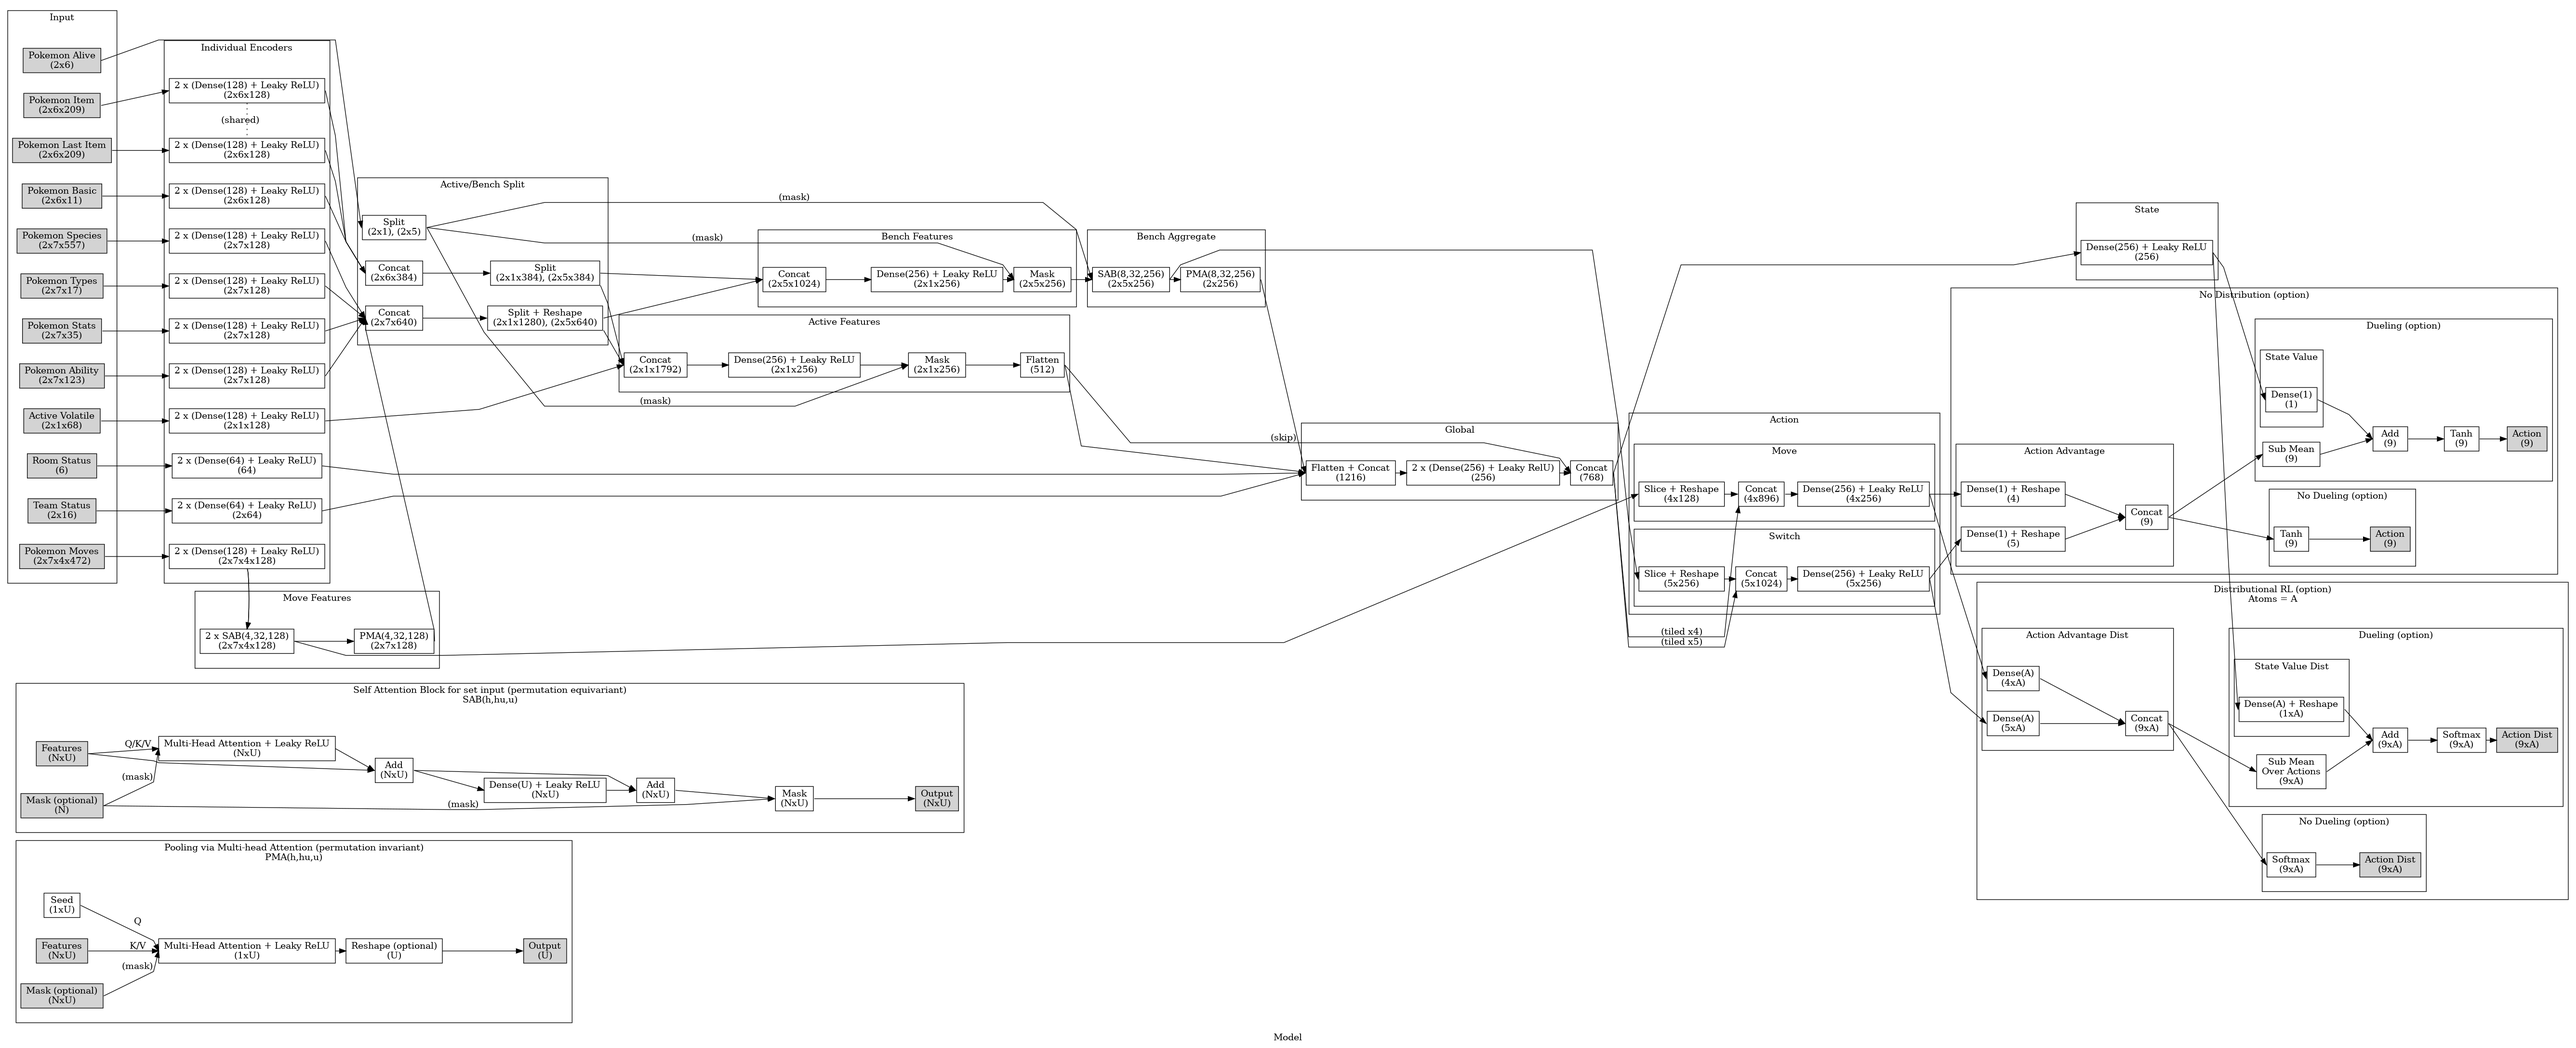
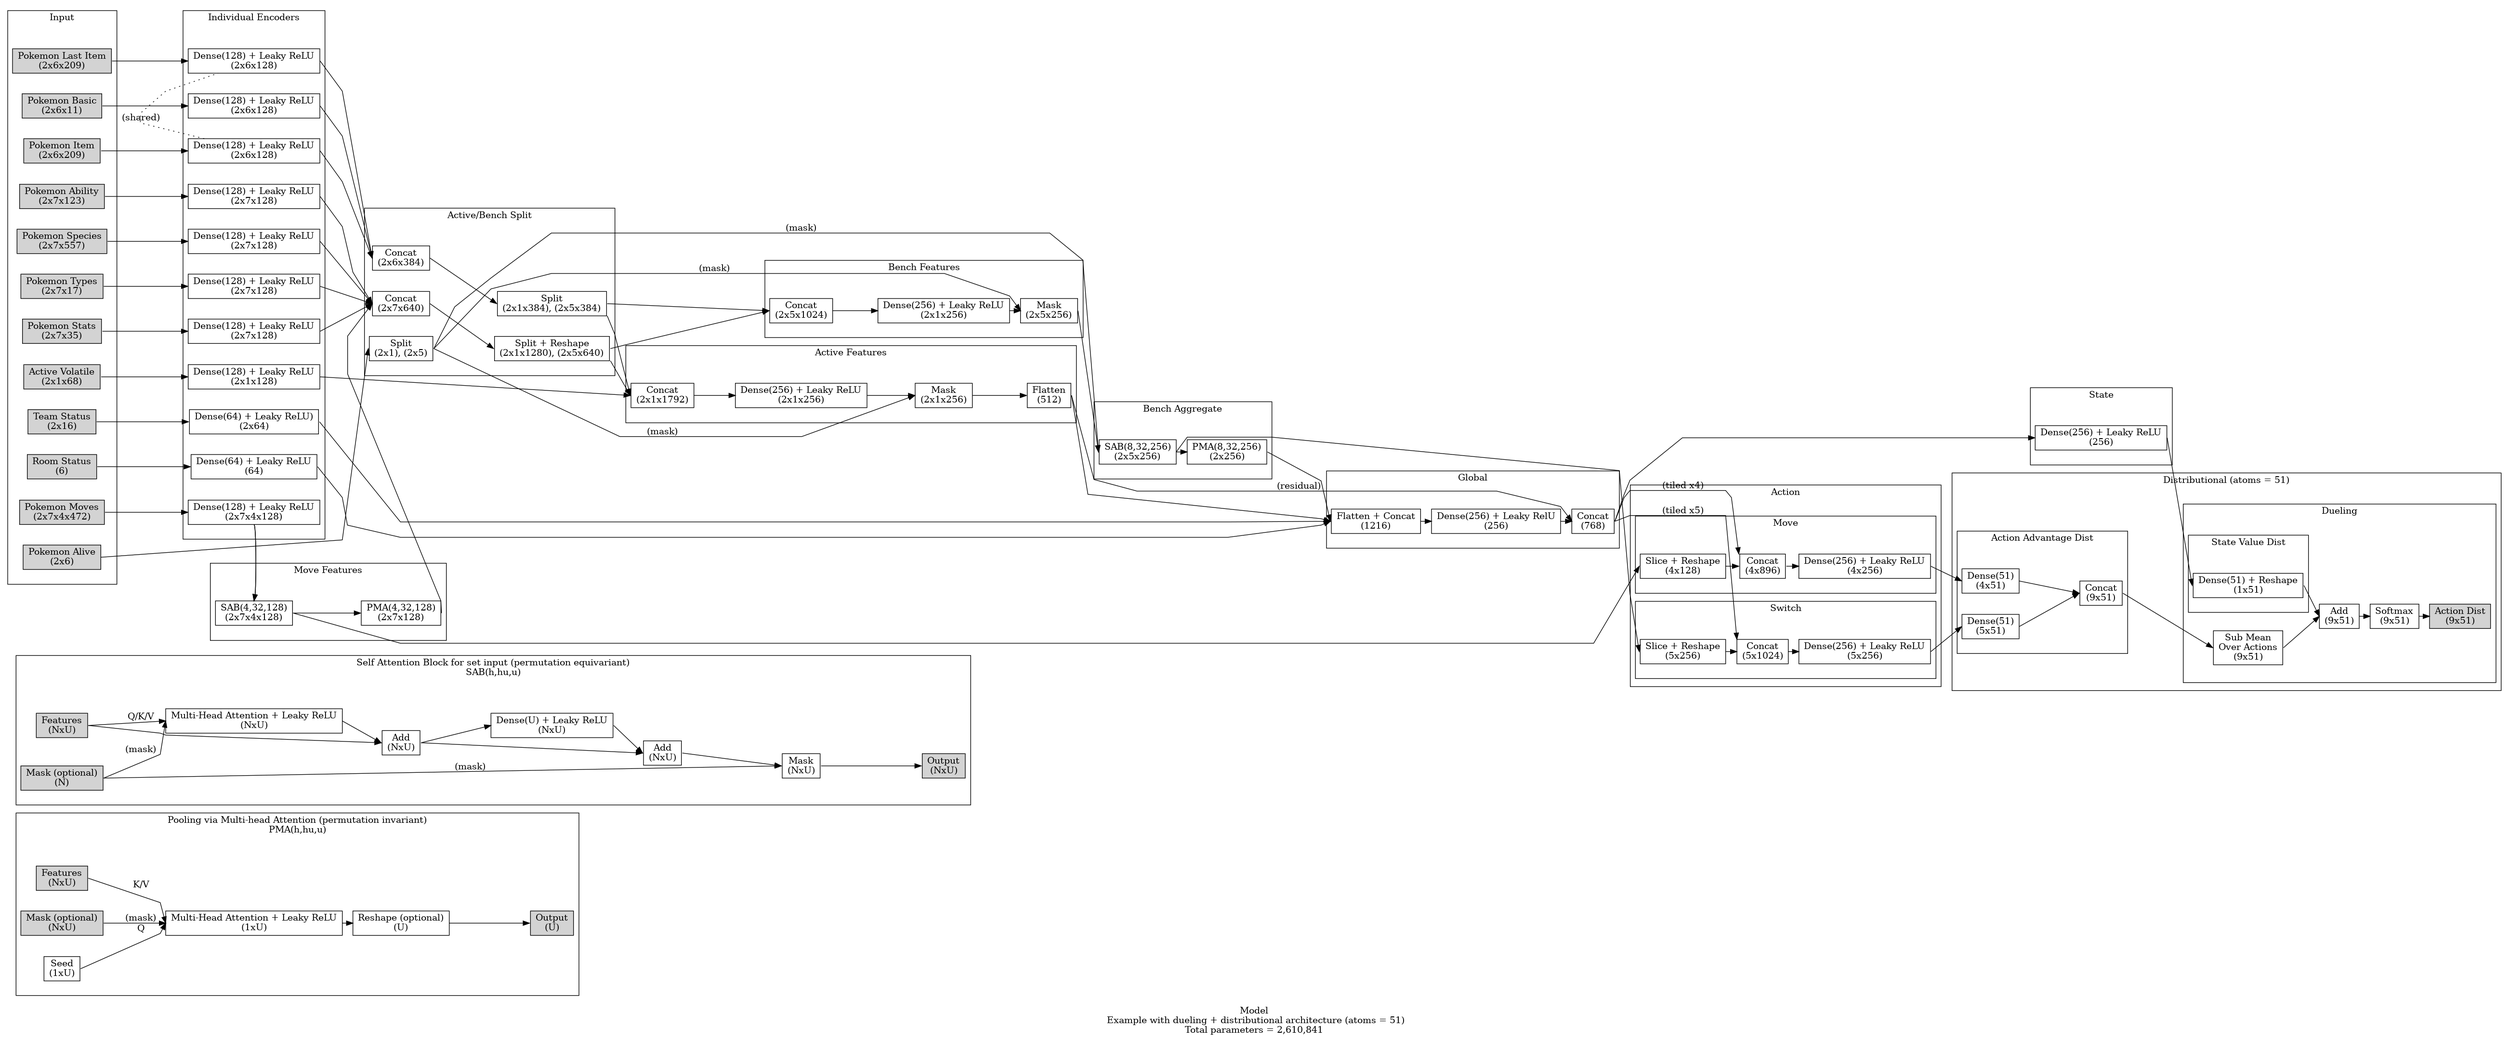
Reduce number of layers
Seems to not improve performance as much as I thought it would

diff --git a/src/model/model.ts b/src/model/model.ts
@@ -115,24 +115,14 @@ export function createModel(
     const moveUnits = 128;
     const moves = inputFeatures(name, "pokemon/moves", moveUnits, random);
     inputs.push(moves.input);
-    let moveset = selfAttentionBlock(
+    const moveset = selfAttentionBlock(
         name,
         "pokemon/moves",
         4 /*heads*/,
         32 /*headUnits*/,
         moveUnits /*units*/,
-        "_1",
         random,
     )(moves.features);
-    moveset = selfAttentionBlock(
-        name,
-        "pokemon/moves",
-        4 /*heads*/,
-        32 /*headUnits*/,
-        moveUnits /*units*/,
-        "_2",
-        random,
-    )(moveset);
     const movesetAggregate = poolingAttentionBlock(
         name,
         "pokemon/moves",
@@ -199,16 +189,6 @@ export function createModel(
         8 /*heads*/,
         32 /*headUnits*/,
         benchUnits /*units*/,
-        "_1",
-        random,
-    )(bench, benchAlive);
-    bench = selfAttentionBlock(
-        name,
-        "bench",
-        8 /*heads*/,
-        32 /*headUnits*/,
-        benchUnits /*units*/,
-        "_2",
         random,
     )(bench, benchAlive);
 
@@ -270,7 +250,7 @@ export function createModel(
 
     let q: tf.SymbolicTensor;
     if (!config?.dueling) {
-        q = qValue(name, "action", config?.dist)(advantage);
+        q = advantage;
     } else {
         const value = stateValue({
             name,
@@ -280,8 +260,9 @@ export function createModel(
             ...(random && {random}),
         })(global);
 
-        q = qDueling(name, "action", config.dist)(advantage, value);
+        q = qDueling(name, "action")(advantage, value);
     }
+    q = qValue(name, "q_val", config?.dist)(q);
 
     //#endregion
 
@@ -361,29 +342,18 @@ function inputFeaturesList(
     random?: Rng,
 ): InputFeaturesList {
     const inputs = labels.map(label => inputLayer(name, label));
-    const denseLayer1 = tf.layers.dense({
-        name: `${name}/${labels[0]}/dense_1`,
+    const denseLayer = tf.layers.dense({
+        name: `${name}/${labels[0]}/dense`,
         units,
         kernelInitializer: tf.initializers.heNormal({seed: random?.()}),
         biasInitializer: "zeros",
     });
-    const activationLayer1 = tf.layers.leakyReLU({
-        name: `${name}/${labels[0]}/leaky_relu_1`,
-    });
-    const denseLayer2 = tf.layers.dense({
-        name: `${name}/${labels[0]}/dense_2`,
-        units,
-        kernelInitializer: tf.initializers.heNormal({seed: random?.()}),
-        biasInitializer: "zeros",
-    });
-    const activationLayer2 = tf.layers.leakyReLU({
-        name: `${name}/${labels[0]}/leaky_relu_2`,
+    const activationLayer = tf.layers.leakyReLU({
+        name: `${name}/${labels[0]}/leaky_relu`,
     });
     const features = inputs.map(input => {
-        input = denseLayer1.apply(input) as tf.SymbolicTensor;
-        input = activationLayer1.apply(input) as tf.SymbolicTensor;
-        input = denseLayer2.apply(input) as tf.SymbolicTensor;
-        input = activationLayer2.apply(input) as tf.SymbolicTensor;
+        input = denseLayer.apply(input) as tf.SymbolicTensor;
+        input = activationLayer.apply(input) as tf.SymbolicTensor;
         return input;
     });
     return {inputs, features};
@@ -472,7 +442,6 @@ function splitPokemon(
  * @param heads Number of attention heads.
  * @param headUnits Size of each head.
  * @param units Size of input.
- * @param suffix Name suffix for layers.
  * @param random Optional seeder for weight init.
  * @returns A function to apply the attention block and output the same shape as
  * input but with the feature dimension replaced with `units`.
@@ -483,37 +452,36 @@ function selfAttentionBlock(
     heads: number,
     headUnits: number,
     units: number,
-    suffix = "",
     random?: Rng,
 ): (
     features: tf.SymbolicTensor,
     mask?: tf.SymbolicTensor,
 ) => tf.SymbolicTensor {
     const attentionLayer = customLayers.setAttention({
-        name: `${name}/${label}/attention${suffix}`,
+        name: `${name}/${label}/attention`,
         heads,
         headUnits,
         units,
         kernelInitializer: tf.initializers.glorotNormal({seed: random?.()}),
     });
     const attentionActivationLayer = tf.layers.leakyReLU({
-        name: `${name}/${label}/attention${suffix}/leaky_relu`,
+        name: `${name}/${label}/attention/leaky_relu`,
     });
     const attentionResidualLayer1 = tf.layers.add({
-        name: `${name}/${label}/attention${suffix}/residual`,
+        name: `${name}/${label}/attention/residual`,
     });
     const attentionDenseLayer = tf.layers.dense({
-        name: `${name}/${label}/attention${suffix}/dense`,
+        name: `${name}/${label}/attention/dense`,
         units,
     });
     const attentionDenseActivationLayer = tf.layers.leakyReLU({
-        name: `${name}/${label}/attention${suffix}/dense/leaky_relu`,
+        name: `${name}/${label}/attention/dense/leaky_relu`,
     });
     const attentionResidualLayer2 = tf.layers.add({
-        name: `${name}/${label}/attention${suffix}/dense/residual`,
+        name: `${name}/${label}/attention/dense/residual`,
     });
     const maskLayer = customLayers.mask({
-        name: `${name}/${label}/attention${suffix}/dense/mask`,
+        name: `${name}/${label}/attention/dense/mask`,
     });
     return function selfAttentionBlockImpl(features, mask) {
         let attention = attentionLayer.apply(
@@ -654,33 +622,22 @@ function aggregateGlobal(
         name: `${name}/${label}/concat`,
         axis: -1,
     });
-    const denseLayer1 = tf.layers.dense({
-        name: `${name}/${label}/dense_1`,
+    const denseLayer = tf.layers.dense({
+        name: `${name}/${label}/dense`,
         units,
         kernelInitializer: tf.initializers.heNormal({seed: random?.()}),
         biasInitializer: "zeros",
     });
-    const activationLayer1 = tf.layers.leakyReLU({
-        name: `${name}/${label}/leaky_relu_1`,
-    });
-    const denseLayer2 = tf.layers.dense({
-        name: `${name}/${label}/dense_2`,
-        units,
-        kernelInitializer: tf.initializers.heNormal({seed: random?.()}),
-        biasInitializer: "zeros",
-    });
-    const activationLayer2 = tf.layers.leakyReLU({
-        name: `${name}/${label}/leaky_relu_2`,
+    const activationLayer = tf.layers.leakyReLU({
+        name: `${name}/${label}/leaky_relu`,
     });
     return function aggregateGlobalImpl(features) {
         const flattened = features.map(t =>
             t.rank === 2 ? t : (flattenLayer.apply(t) as tf.SymbolicTensor),
         );
         let combined = concatLayer.apply(flattened) as tf.SymbolicTensor;
-        combined = denseLayer1.apply(combined) as tf.SymbolicTensor;
-        combined = activationLayer1.apply(combined) as tf.SymbolicTensor;
-        combined = denseLayer2.apply(combined) as tf.SymbolicTensor;
-        combined = activationLayer2.apply(combined) as tf.SymbolicTensor;
+        combined = denseLayer.apply(combined) as tf.SymbolicTensor;
+        combined = activationLayer.apply(combined) as tf.SymbolicTensor;
         return combined;
     };
 }
@@ -763,12 +720,12 @@ function actionValue({
         kernelInitializer: tf.initializers.glorotNormal({seed: random?.()}),
         biasInitializer: "zeros",
     });
-    const reshapeLayer = atoms
-        ? undefined
-        : tf.layers.reshape({
-              name: `${name}/${label}/reshape`,
-              targetShape: [numActions],
-          });
+    const reshapeLayer =
+        !atoms &&
+        tf.layers.reshape({
+            name: `${name}/${label}/reshape`,
+            targetShape: [numActions],
+        });
     return function actionValuesImpl(local, global) {
         local = localSliceLayer.apply(local) as tf.SymbolicTensor;
         local = localReshapeLayer.apply(local) as tf.SymbolicTensor;
@@ -777,7 +734,9 @@ function actionValue({
         values = denseLayer1.apply(values) as tf.SymbolicTensor;
         values = activationLayer.apply(values) as tf.SymbolicTensor;
         values = denseLayer2.apply(values) as tf.SymbolicTensor;
-        values = (reshapeLayer?.apply(values) as tf.SymbolicTensor) ?? values;
+        if (reshapeLayer) {
+            values = reshapeLayer.apply(values) as tf.SymbolicTensor;
+        }
         return values;
     };
 }
@@ -873,21 +832,17 @@ function qValue(
 }
 
 /**
- * Creates a layer that computes Q-value from action advantages and state value
- * using a dueling architecture.
+ * Creates a layer that adds dueling Q network logic before applying the
+ * {@link qValue} layer.
  *
  * @param name Name of model.
  * @param label Name of module.
- * @param atoms If defined, the function will compute the softmax value
- * distribution for each action rather than a single value per action. The
- * number specifies the number of atoms with which to construct the support of
- * the value distribution.
- * @returns A function to compute the Q-values.
+ * @returns A function to compute the Q-values from action advantages and state
+ * value using a dueling architecture.
  */
 function qDueling(
     name: string,
     label: string,
-    atoms?: number,
 ): (
     advantage: tf.SymbolicTensor,
     value: tf.SymbolicTensor,
@@ -900,21 +855,13 @@ function qDueling(
     });
     const advSubLayer = customLayers.sub({name: `${name}/${label}/sub`});
     const qAddLayer = tf.layers.add({name: `${name}/${label}/add`});
-    const softmaxLayer = atoms
-        ? tf.layers.softmax({
-              name: `${name}/${label}/softmax`,
-              axis: -1,
-          })
-        : undefined;
     return function duelingImpl(advantage, value) {
         const meanAdv = meanAdvLayer.apply(advantage) as tf.SymbolicTensor;
         advantage = advSubLayer.apply([
             advantage,
             meanAdv,
         ]) as tf.SymbolicTensor;
-        let q = qAddLayer.apply([advantage, value]) as tf.SymbolicTensor;
-        q = (softmaxLayer?.apply(q) as tf.SymbolicTensor) ?? q;
-        return q;
+        return qAddLayer.apply([advantage, value]) as tf.SymbolicTensor;
     };
 }
 
